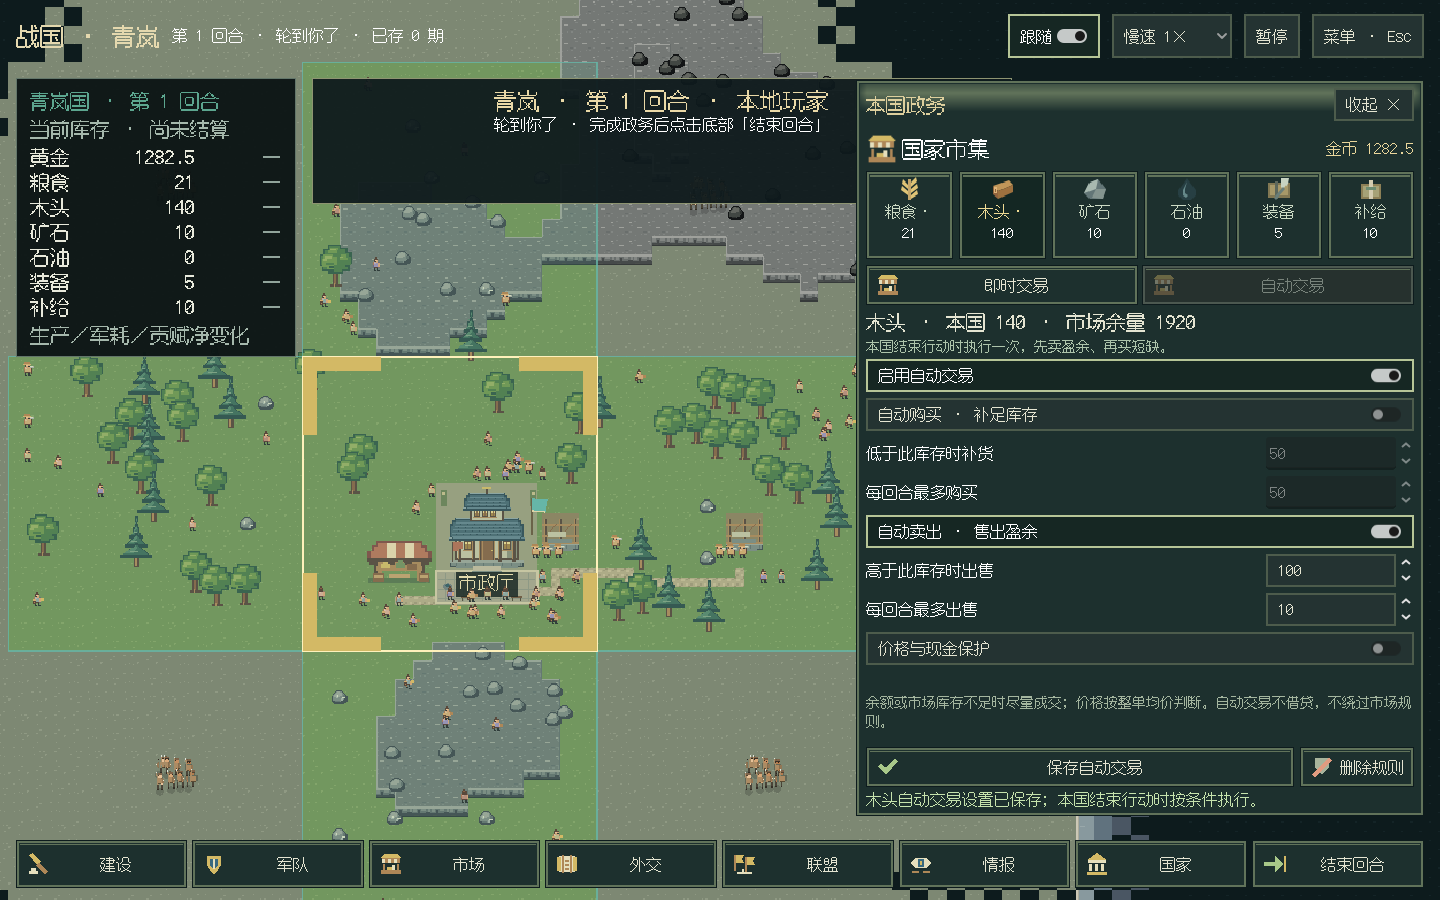
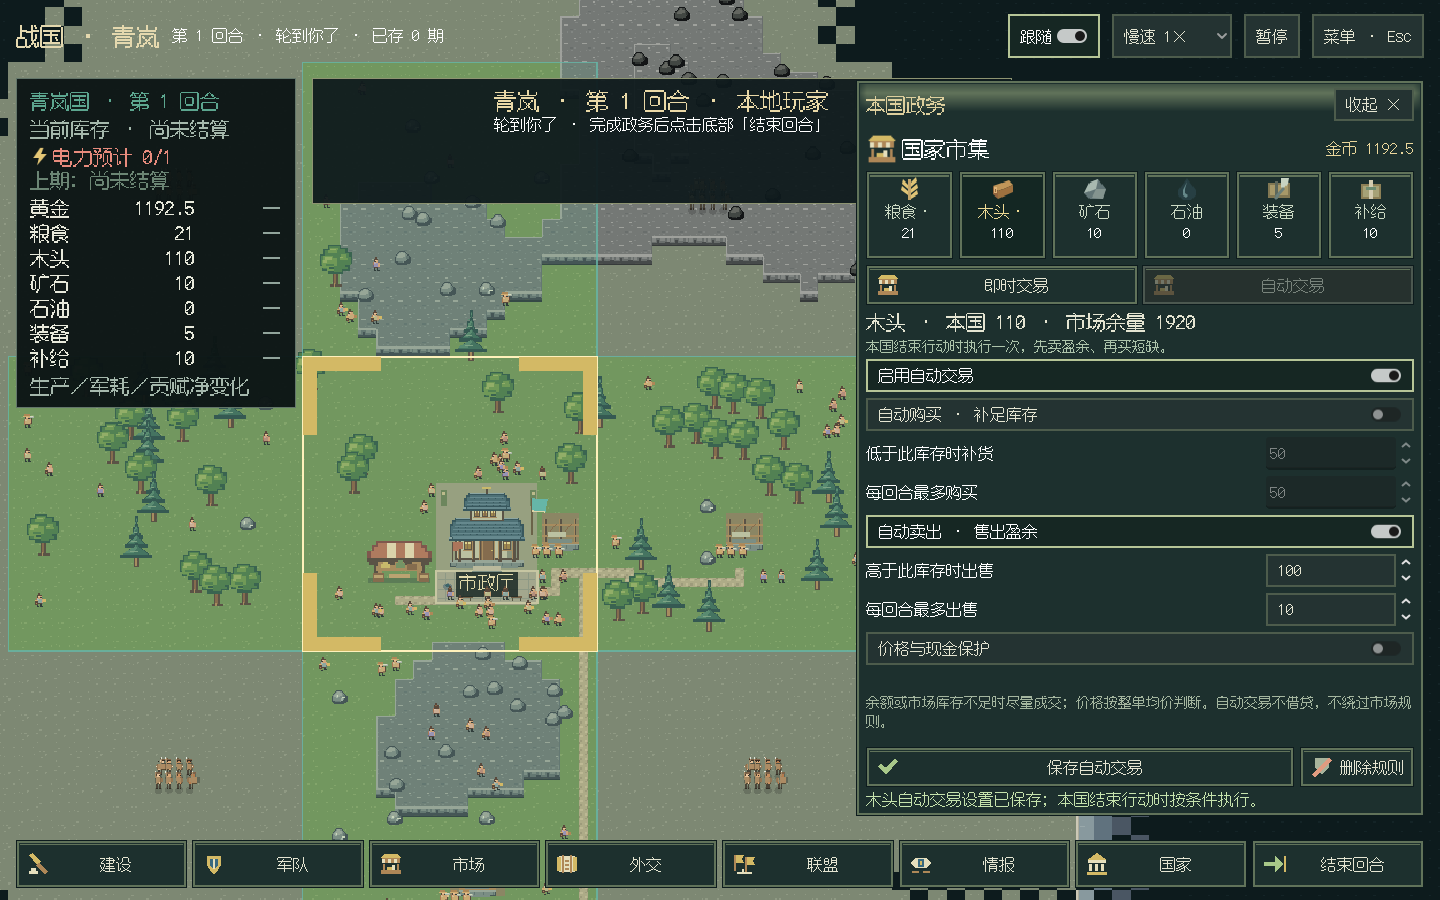
补全常驻电力预估与上期电网状态显示

diff --git a/mods/ui/desktop/Scripts/Desktop.Ledger.cs b/mods/ui/desktop/Scripts/Desktop.Ledger.cs
@@ -12,6 +12,8 @@ public partial class Desktop
     private Label _ledgerHeading=null!,_ledgerPeriod=null!,_settlementHeading=null!,_settlementInfo=null!,_settlementSupply=null!,_settlementTribute=null!,_settlementEmpty=null!;
     private VBoxContainer _settlementBody=null!;
     private GridContainer _ledgerStocks=null!,_settlementStocks=null!;
+    private VBoxContainer _ledgerPowerBox=null!;
+    private Label _ledgerPower=null!,_ledgerPowerLast=null!;
     private string _ledgerActor="";
     private readonly List<string> _ledgerSwitches=new();
     private int _nationalSettlements;
@@ -40,6 +42,11 @@ public partial class Desktop
         _ledgerPanel=LedgerCard(this,6);var box=new VBoxContainer();box.AddThemeConstantOverride("separation",7);_ledgerPanel.AddChild(box);
         _ledgerHeading=LedgerLabel("列国收支");_ledgerHeading.TextOverrunBehavior=TextServer.OverrunBehavior.TrimEllipsis;box.AddChild(_ledgerHeading);
         _ledgerPeriod=LedgerLabel("","a5b8ac");_ledgerPeriod.TextOverrunBehavior=TextServer.OverrunBehavior.TrimEllipsis;box.AddChild(_ledgerPeriod);
+        _ledgerPowerBox=new VBoxContainer { MouseFilter=MouseFilterEnum.Stop };_ledgerPowerBox.AddThemeConstantOverride("separation",2);box.AddChild(_ledgerPowerBox);
+        var powerRow=new HBoxContainer();_ledgerPowerBox.AddChild(powerRow);
+        powerRow.AddChild(new TextureRect { Texture=RtsArt.Resource("native:energy"),CustomMinimumSize=new Vector2(19,19),ExpandMode=TextureRect.ExpandModeEnum.IgnoreSize,StretchMode=TextureRect.StretchModeEnum.KeepAspectCentered,MouseFilter=MouseFilterEnum.Ignore });
+        _ledgerPower=LedgerLabel("");_ledgerPower.Name="CountryPower";_ledgerPower.TextOverrunBehavior=TextServer.OverrunBehavior.TrimEllipsis;powerRow.AddChild(_ledgerPower);
+        _ledgerPowerLast=LedgerLabel("","a5b8ac");_ledgerPowerBox.AddChild(_ledgerPowerLast);
         _ledgerStocks=new GridContainer { Columns=3 };_ledgerStocks.AddThemeConstantOverride("h_separation",10);
         _ledgerStocks.AddThemeConstantOverride("v_separation",4);box.AddChild(_ledgerStocks);
         var note=LedgerLabel("生产／军耗／贡赋净变化","a5b8ac");box.AddChild(note);
@@ -90,6 +97,19 @@ public partial class Desktop
         _ledgerHeading.Text=$"{view.Name}国 · 第 {view.Period+1} 回合";
         _ledgerHeading.Modulate=_map.NationColor(target);
         _ledgerPeriod.Text="当前库存 · "+(view.FlowPeriod<0?"尚未结算":$"第 {view.FlowPeriod+1} 期净变化");
+        _ledgerPowerBox.Visible=view.Power!=null;
+        if(view.Power is LedgerPower power)
+        {
+            string q(double value)=>NationLedger.Quantity(value);
+            bool shortfall=power.Generated is double generated&&generated<power.Demand;
+            _ledgerPower.Text=power.Generated is double supply?$"电力预计 {q(supply)}/{q(power.Demand)}":$"额定电力 {q(power.Capacity)}/{q(power.Demand)}";
+            _ledgerPower.Modulate=new Color(shortfall?"ff9891":"b8d5b3");
+            _ledgerPowerLast.Text=power.PreviousShort==null?"上期：尚未结算":power.PreviousShort==true?"上期：电网不足":"上期：供电正常";
+            _ledgerPowerLast.Modulate=new Color(power.PreviousShort==true?"e6b3a4":"a5b8ac");
+            _ledgerPowerBox.TooltipText=$"预计供电 / 当前需电，额定产能 {q(power.Capacity)}。\n只计已完工设施，按当前库存、采集、燃料与贡赋顺序预估，不扣资源。后续行动和交易可能改变结果。"+
+                (power.FuelShortPlants>0?$"\n{power.FuelShortPlants} 座电厂预计因燃料不足停机。":"")+
+                "\n电力不储存、不交易；上期状态来自实际结算，缺电时耗电设施停工。";
+        }
         ClearLedgerRows(_ledgerStocks);
         foreach(var row in view.Stocks)
         {
@@ -149,5 +169,6 @@ public partial class Desktop
             throw new Exception("全国结算卡片越界或重叠");
         foreach(Control row in _ledgerStocks.GetChildren())
             if(!_ledgerPanel.GetGlobalRect().Encloses(row.GetGlobalRect()))throw new Exception("国家账目行超出面板");
+        if(_ledgerPowerBox.Visible&&!_ledgerPanel.GetGlobalRect().Encloses(_ledgerPowerBox.GetGlobalRect()))throw new Exception("电力面板超出国家面板");
     }
 }

diff --git a/tests/test_energy_preview.py b/tests/test_energy_preview.py
@@ -1,0 +1,63 @@
+"""Current power uses the real production algorithm, without executing a turn."""
+from copy import deepcopy
+import unittest
+from tests import test_building_objects as fixtures
+from tests.test_human import config,A
+from host import GameHost
+from mods.native.human import HumanAPI
+from mods.ui.desktop_player import frame
+
+
+class TestEnergyPreview(unittest.TestCase):
+    def world(self,wood):
+        w=fixtures.TestBuildings().world()
+        w.resources.consume('Qin','native:wood',1000-wood)
+        w.buildings.seed('example:qin','native:wood-power-plant',2)
+        w.buildings.seed('example:qin','native:town-hall')
+        w.buildings.seed('example:qin','native:barracks',2)
+        return w
+
+    def assert_matches(self,w,share=None):
+        before=deepcopy(w.runtime.save_mod_state(w))
+        preview=w.buildings.demand_preview('Qin',share)['energy']
+        self.assertEqual(before,w.runtime.save_mod_state(w),'power forecast mutated real balances/buildings')
+        report=w.buildings.produce(production_shares={'Qin':share} if share else None)
+        actual=next(r for r in report.energy if r.owner=='Qin')
+        self.assertEqual((preview['generated'],preview['demand'],preview['short']),
+                         (actual.generated,actual.demand,actual.short))
+        return preview
+
+    def test_installed_capacity_is_not_generation_when_fuel_is_missing(self):
+        w=self.world(1)
+        preview=self.assert_matches(w)
+        self.assertEqual((preview['capacity'],preview['generated'],preview['demand']),(4,2,3))
+        self.assertEqual((preview['shortfall'],preview['fuel_short_plants']),(1,1))
+
+    def test_current_gathering_can_fuel_plants_but_unfinished_plants_do_not_generate(self):
+        w=self.world(0)
+        w.buildings.seed('example:qin','native:lumber-camp',2)
+        w.buildings.seed('example:qin','native:oil-power-plant',completed=False)
+        preview=self.assert_matches(w)
+        self.assertEqual((preview['capacity'],preview['generated'],preview['demand']),(4,4,3))
+        self.assertEqual(preview['fuel_short_plants'],0)
+
+    def test_tribute_rounding_is_applied_before_power_fuel(self):
+        w=self.world(1)
+        w.buildings.seed('example:qin','native:lumber-camp')
+        preview=self.assert_matches(w,{'recipient':'Chu','percent':100})
+        self.assertEqual(preview['generated'],2)
+
+    def test_player_projection_exposes_only_own_power_and_last_actual_grid_status(self):
+        h=GameHost.new(config());api=HumanAPI(h)
+        energy=api.state(A)['facts']['econ']['preview']['energy']
+        self.assertEqual((energy['generated'],energy['capacity'],energy['demand']),(0,0,1))
+        self.assertIsNone(energy['previous_short'])
+        before=h.to_save();visual=frame(h.ui,api.state(A))
+        self.assertEqual(h.to_save(),before)
+        self.assertEqual([p['id'] for p in visual['scene']['power']],[A])
+        h.cycle(on_human=lambda p:api.submit(A,'end_turn',{}))
+        energy=api.state(A)['facts']['econ']['preview']['energy']
+        self.assertTrue(energy['previous_short'])
+
+
+if __name__=='__main__':unittest.main()

diff --git a/mods/native/buildings/objects.py b/mods/native/buildings/objects.py
@@ -412,8 +412,8 @@ class Buildings:
             for key,amount in cycle.inputs:need[key] = need.get(key,0)+amount
         return MappingProxyType(need)
 
-    def demand_preview(self, owner):
-        """已落成建筑按真实 cycle 配方汇总的满负荷需求，不执行生产。"""
+    def demand_preview(self, owner, production_share=None):
+        """满负荷投入产出，以及按当前库存/采集/燃料预测的电网；不扣资源。"""
         owner_name(owner)
         inputs, outputs, capacity, demand = {}, {}, 0, 0
         for item in self._instances.values():
@@ -423,8 +423,34 @@ class Buildings:
             for key, amount in cycle.outputs:outputs[key] = outputs.get(key, 0) + amount
             capacity += cycle.energy
             demand += item.ENERGY_USE
+        power=self._energy_preview(owner,production_share)
         return {'inputs': inputs, 'outputs': outputs,
-                'energy': {'capacity': capacity, 'demand': demand, 'capacity_gap': max(0, demand-capacity)}}
+                'energy': {'capacity': capacity, 'demand': demand, 'capacity_gap': max(0, demand-capacity),
+                           **power}}
+
+    def _energy_preview(self, owner, production_share):
+        """Run the real production algorithm on detached own buildings/balances.
+
+        No resource exchanges reach the world. This preserves gather-before-
+        fuel, plant order and tribute rounding without duplicating their rules.
+        """
+        stocks=tuple(self._resources('snapshot',owner))
+        def resources(method,*args):
+            if method=='snapshot':
+                return stocks if args[0]==owner else tuple(replace(s,owner=args[0],amount=0) for s in stocks)
+            if method=='exchange_batch':return ()
+            raise ModError('Unexpected energy preview resource operation')
+        candidate=Buildings(tuple(self._types.values()),resources)
+        candidate._period=self.period
+        candidate._sites={key:site for key,site in self._sites.items() if site.owner==owner}
+        candidate._instances={key:type(item).from_save(item.to_save()) for key,item in self._instances.items() if item.site in candidate._sites}
+        candidate._tribute_remainders={key:value for key,value in self._tribute_remainders.items() if key[0]==owner}
+        report=candidate.produce(production_shares={owner:production_share} if production_share else None)
+        row=next((r for r in report.energy if r.owner==owner),EnergyReport(owner,0,0,0,False))
+        blocked=sum(r.status=='missing-input' and candidate._type(r.kind).PHASE=='power' for r in report.records)
+        return {'generated':row.generated,'shortfall':max(0,row.demand-row.generated-row.external),
+                'short':row.short,'fuel_short_plants':blocked,
+                'basis':'按当前完工建筑、库存及采集／发电顺序预估；后续行动与交易可能改变结果，不扣资源。'}
 
     def _other_slots(self, item):
         return sum(other.completed and other.site==item.site and other.kind!=item.kind

diff --git a/mods/ui/desktop/Scripts/Desktop.HumanReview.cs b/mods/ui/desktop/Scripts/Desktop.HumanReview.cs
@@ -99,6 +99,7 @@ public partial class Desktop
             _menu.Visible=false;StartHost(configPath,null);
             await HumanIdle();if(_map.NationName(HumanActor)!="青岚"||_map.NationColor(HumanActor).ToHtml(false)!="66b6a7")throw new Exception("本国名称／颜色未进入实际地图");
             if(OwnArmies.Any())throw new Exception("正常真人开局不应赠兵");CloseDrawers(false);_map.Fit();await Screenshot(path);
+            if(!_ledgerPowerBox.Visible||!_ledgerPower.Text.Contains("0/1")||!_ledgerPowerLast.Text.Contains("尚未结算"))throw new Exception("开局未显示当前电力缺口与首次结算状态");
             foreach(string page in new[]{"build","army","market","diplomacy","alliance","intel","nation"})
             {
                 await PointerClick(_humanNav[page]);await ToSignal(GetTree(),SceneTree.SignalName.ProcessFrame);
@@ -148,6 +149,8 @@ public partial class Desktop
             await WaitFor(()=>HumanCanWrite&&_period==1,"真人回合没有轮换与结算",120);
             var autoOrders=HumanFacts["market"]!["automatic"]!["last"]!["orders"]!.AsArray();
             if(!autoOrders.Any(o=>S(o!["side"])=="buy"&&I(o["quantity"])>0)||!autoOrders.Any(o=>S(o!["side"])=="sell"&&I(o["quantity"])>0))throw new Exception("自动买卖没有在结束行动时真实成交");
+            if(NationLedger.Read(_map.Frame!,HumanActor)?.Power is not {Capacity:2,Generated:2,Demand:1,PreviousShort:true}||!_ledgerPowerLast.Text.Contains("不足"))throw new Exception("电厂落成后的供电预估与上期实际电网没有区分");
+            await Screenshot(stem+"-power.png");
             await ReviewCompletedDemolition(stem,otherCell);
             _humanCell=capital;OpenHumanPage("recruit");await RtsReady();
             if(_rtsCards["native:militia"].Disabled||!_rtsCards["native:infantry"].Disabled)throw new Exception("军屯与兵营候选未正确筛选");
@@ -238,6 +241,7 @@ public partial class Desktop
                 ["map_purchase"]=true,["historical_pixels_static"]=true,["single_nation_ledger"]=true,
                 ["market_quantity_buttons"]=true,["market_exact_quotes"]=true,["auto_trade_buy_and_sell"]=true,["auto_trade_validation"]=true,["cancel_half_refund"]=true,["cancel_keeps_quota"]=true,["demolish_zero_refund"]=true,["market_layouts"]=true,
                 ["garrison_visible_without_scroll"]=true,["wild_garrison_continuity"]=true,["wild_guard_id"]=wildId,["wild_formation_figures"]=wildFigures,
+                ["power_visible"]=true,["power_ignores_unfinished"]=true,["power_previous_actual"]=true,
                 ["save_queued"]=true,["exit_choice"]=true,["rts_layouts"]=true,["save"]=_savePath,["config"]=configPath,["layouts"]=layouts,
                 ["platform"]=OS.GetName(),["renderer"]=RenderingServer.GetVideoAdapterName() };
             await File.WriteAllTextAsync(path+".json",result.ToJsonString(new JsonSerializerOptions { WriteIndented=true }));

diff --git a/mods/native/economy_queries/objects.py b/mods/native/economy_queries/objects.py
@@ -96,7 +96,10 @@ class EconomicQueries:
         buildings = self._value(self._call('native:buildings','replacement_costs',owner))
         turns = self._call('native:economy','turns',owner)
         flows = self._call('native:economy','production',owner)
-        preview = dict(self._call('native:buildings', 'demand_preview', owner))
+        relations=self._call('native:diplomacy','snapshot',owner).vassals if 'native:diplomacy' in self._runtime.capabilities else ()
+        relation=next((s for s in relations if s.subject==owner),None)
+        share={'recipient':relation.overlord,'percent':relation.tribute_percent} if relation else None
+        preview = dict(self._call('native:buildings', 'demand_preview', owner,share))
         # 本期产业按当前建筑与市价的满负荷预演；latest_flows 仍是上一期实际。
         outputs = dict(preview.get('outputs') or ())
         production_inputs = dict(preview.get('inputs') or ())
@@ -112,8 +115,6 @@ class EconomicQueries:
                     'supply_value': supply_value, 'equipment_value': equipment_value,
                     'input_value': input_value, 'margin': secondary_value.plus(input_value, -1)}
         if 'native:diplomacy' in self._runtime.capabilities:
-            relations=self._call('native:diplomacy','snapshot',owner).vassals
-            relation=next((s for s in relations if s.subject==owner),None)
             if relation:
                 preview['tribute']=self._call('native:buildings','tribute_preview',owner,relation.overlord,relation.tribute_percent)
             receivables=[{'subject':s.subject,'percent':s.tribute_percent,
@@ -126,6 +127,7 @@ class EconomicQueries:
         if military:
             inputs['native:supply'] = inputs.get('native:supply', 0) + military['need']
             inputs['native:equipment'] = inputs.get('native:equipment', 0) + military['equipment_need']
+        preview['energy']['previous_short']=military.get('last_grid_short')
         balances = {row.id: row.amount for row in stocks}
         preview.update(inputs=inputs, military=military,
                        shortfalls={key:amount-balances.get(key,0) for key,amount in inputs.items() if amount>balances.get(key,0)})

diff --git a/mods/ui/desktop/Scripts/NationLedger.cs b/mods/ui/desktop/Scripts/NationLedger.cs
@@ -7,7 +7,9 @@ using System.Text.Json.Nodes;
 namespace Zhanguo.Desktop.Layout;
 
 public sealed record LedgerStock(string Id,string Name,double Amount,double Change);
-public sealed record NationLedgerView(string Actor,string Name,int Period,int FlowPeriod,IReadOnlyList<LedgerStock> Stocks);
+public sealed record LedgerPower(double Capacity,double? Generated,double Demand,bool? PreviousShort,int FuelShortPlants);
+public sealed record NationLedgerView(string Actor,string Name,int Period,int FlowPeriod,IReadOnlyList<LedgerStock> Stocks)
+{ public LedgerPower? Power {get;init;} }
 
 // Reads the replayed frame, including action-time account deltas; never reads
 // the pending end-of-batch frame or guesses income from inventory differences.
@@ -22,7 +24,11 @@ public static class NationLedger
         var stocks=(nation["stocks"]?.AsArray()??new JsonArray()).Select(s=>new LedgerStock(
             s!["id"]!.ToString(),s["name"]?.ToString()??s["id"]!.ToString(),Number(s["amount"]),
             changes.GetValueOrDefault(s["id"]!.ToString()))).ToArray();
-        return new(actor,nation["name"]!.ToString(),frame["period"]!.GetValue<int>(),flow?["period"]?.GetValue<int>()??-1,stocks);
+        var energy=nation["energy"];
+        return new(actor,nation["name"]!.ToString(),frame["period"]!.GetValue<int>(),flow?["period"]?.GetValue<int>()??-1,stocks) {
+            Power=energy?["capacity"]!=null&&energy["demand"]!=null?new LedgerPower(Number(energy["capacity"]),
+                energy["generated"]==null?null:Number(energy["generated"]),Number(energy["demand"]),
+                energy["previous_short"]?.GetValue<bool>(),(int)Number(energy["fuel_short_plants"])):null };
     }
     public static Dictionary<string,double> Amounts(JsonNode? pairs)=>(pairs?.AsArray()??new JsonArray())
         .ToDictionary(p=>p![0]!.ToString(),p=>Number(p![1]));

diff --git a/mods/ui/desktop/Scripts/Desktop.MarketReview.cs b/mods/ui/desktop/Scripts/Desktop.MarketReview.cs
@@ -4,6 +4,7 @@ using System.Linq;
 using System.Text.Json.Nodes;
 using System.Threading.Tasks;
 using static WorldMap;
+using Zhanguo.Desktop.Layout;
 
 public partial class Desktop
 {
@@ -28,6 +29,10 @@ public partial class Desktop
         OpenHumanPage("build");await RtsReady();
         if(!Yes(_rtsData!["ordered"])||_rtsAvailability.Values.Any(v=>v))throw new Exception("撤销恢复了本格当期施工额度");
         await Screenshot(stem+"-cancelled.png");
+        var powerCell=HumanFacts["building_sites"]!["sites"]!.AsArray().Select(s=>new Vector2I(I(s!["position"]![0]),I(s["position"]![1]))).First(p=>p!=capital&&p!=other&&p!=third);
+        _humanCell=powerCell;OpenHumanPage("build");await RtsReady();
+        await PointerClick(_rtsCards["native:wood-power-plant"]);await HumanIdle();await RtsReady();
+        if(NationLedger.Read(_map.Frame!,HumanActor)?.Power?.Generated!=0)throw new Exception("未完工电厂提前计入供电");
         _marketAutomatic=false;OpenHumanPage("market");await MarketReady();
         if(_marketData!["quotes"]!.AsArray().Count!=10)throw new Exception("不是十档正负交易按钮");
         foreach(var side in new[]{"buy","sell"})foreach(int n in new[]{1,10,50,100,500})

diff --git a/tests/desktop-layout/LedgerChecks.cs b/tests/desktop-layout/LedgerChecks.cs
@@ -26,6 +26,10 @@ static class LedgerChecks
         DesktopScene.Apply(frame,settled);q=NationLedger.Read(frame,"q")!;
         Require(q.FlowPeriod==4&&q.Stocks.Single().Change==0&&NationLedger.Read(frame,"c")!.FlowPeriod==3,"zero flow remained stale or another country's settlement advanced early");
         Require(NationLedger.Signed(-8)=="-8"&&NationLedger.Signed(12)=="+12"&&NationLedger.Signed(0)=="—","signed resource labels lost their sign");
+        var grid=JsonNode.Parse("""{"power":{"remove":[],"upsert":[{"id":"q","capacity":4,"generated":2,"demand":3,"previous_short":true,"fuel_short_plants":1}]}}""")!.AsObject();
+        DesktopScene.Apply(frame,grid);q=NationLedger.Read(frame,"q")!;
+        Require(q.Power is {Capacity:4,Generated:2,Demand:3,PreviousShort:true,FuelShortPlants:1},"ledger confused rated capacity, current fuel-limited supply and prior actual grid");
+        Require(NationLedger.Read(frame,"c")!.Power==null,"another country's power leaked into this country's ledger");
         Console.WriteLine("NATION_LEDGER_OK: one country, actual action-time holdings, dated flows, zero reset and detached projection");
     }
 }

diff --git a/mods/ui/desktop/Scripts/Desktop.Human.Panels.cs b/mods/ui/desktop/Scripts/Desktop.Human.Panels.cs
@@ -166,7 +166,7 @@ public partial class Desktop
         HumanText($"{NationLabel(HumanActor)} · 国务",true);
         HumanText("当前库存\n"+string.Join("\n",HumanFacts["econ"]!["stocks"]!.AsArray().Select(s=>$"{HumanLabel(S(s!["id"]))}  {Quantity(s["amount"])}")));
         var e=HumanFacts["econ"]!["preview"]!;
-        HumanText($"能源预演：产能 {e["energy"]?["capacity"]} / 需求 {e["energy"]?["demand"]}\n生产与军需预演（非实收）：\n{Resources(e["outputs"])}\n需求：{Resources(e["inputs"])}");
+        HumanText($"电力预计 {e["energy"]?["generated"]} / 需求 {e["energy"]?["demand"]} · 额定 {e["energy"]?["capacity"]}\n生产与军需预演（非实收）：\n{Resources(e["outputs"])}\n需求：{Resources(e["inputs"])}");
         var bank=HumanFacts["bank"]!;
         HumanText($"贷款额度 {bank["credit_limit"]} 金 · 当前债务 {bank["liabilities"]} 金\n存款利率 {F(bank["savings_rate"]):P1} · 贷款利率 {F(bank["loan_rate"]):P1}");
         HumanButton("贷款与只读授信预览",()=>{_humanOperation="borrow";OpenHumanPage("finance");},"market");

diff --git a/mods/ui/desktop/Scripts/DesktopScene.cs b/mods/ui/desktop/Scripts/DesktopScene.cs
@@ -46,11 +46,13 @@ public static class DesktopScene
         frame["armies"]=scene["armies"]!.DeepClone();
         var accounts=scene["accounts"]?.AsArray().ToDictionary(a=>a!["id"]!.ToString());
         var flows=scene["resource_flows"]?.AsArray().ToDictionary(a=>a!["id"]!.ToString());
+        var power=scene["power"]?.AsArray().ToDictionary(a=>a!["id"]!.ToString());
         foreach(var n in frame["nations"]?.AsArray()??new JsonArray())
         {
             string id=n!["id"]!.ToString();
             if(accounts?.TryGetValue(id,out var account)==true)n["stocks"]=account!["stocks"]!.DeepClone();
             if(flows?.TryGetValue(id,out var flow)==true)n["resource_flow"]=flow!.DeepClone();
+            if(power?.TryGetValue(id,out var grid)==true)n["energy"]=grid!.DeepClone();
             n["land"]=owners.Values.Count(v=>v?.ToString()==id);
             var units=scene["armies"]!.AsArray().Where(u=>u!["owner"]!.ToString()==id&&F(u["hp"])>0);
             var counts=new JsonObject();foreach(var g in units.GroupBy(u=>UnitName(u!["kind"]!.ToString())))counts[g.Key]=g.Count();

diff --git a/mods/native/observer.py b/mods/native/observer.py
@@ -50,7 +50,8 @@ class NativeObserver:
                                    'hp':self.world.units.definition('native:infantry')['hp'],
                                    'x':x,'y':y,'engaged':False,'potential':True})
             market=wire(self.world.market.summary());stock=dict(market['inventory']);reference=dict(market['reference'])
-            return {'buildings':buildings,'armies':wire(self.world.military.snapshot()),'guards':guards,
+            power=[{'id':a,**self.runtime.object_call(self.world,'economy:queries','balance',a).preview['energy']} for a in self.actors()]
+            return {'buildings':buildings,'armies':wire(self.world.military.snapshot()),'guards':guards,'power':power,
                     'unit_types':[{'id':kind,'max_hp':self.world.units.definition(kind)['hp']} for kind in self.world.units.type_ids],
                     'tile_defenses':defenses,
                     'production':[wire(r.fact) for r in self.world.economy.facts(self.world.economy.next_period-1)

diff --git a/mods/ui/desktop_player.py b/mods/ui/desktop_player.py
@@ -91,6 +91,7 @@ def frame(ui,state):
         'labels':{key:label(key) for key in set(kinds)|set(terrain)|set(s['id'] for s in stocks)|set(facts['unit_catalog'])|{k for t in tiles for k,_ in t.get('resources',[])}},
         'clients':[{'actor':actor,'kind':'human','version':'human/1','model':None,'strategy':None}],
         'scene':{'buildings':buildings,'armies':armies,'guards':guards,'tile_defenses':defenses,
+            'power':[{'id':actor,**deepcopy(facts['econ']['preview']['energy'])}],
             'ownership':ownership,'accounts':[{'id':actor,'stocks':stocks}],
             'resource_flows':[resource_flow],'production':[],'market':prices,
             'unit_types':[{'id':k,'max_hp':v['hp']} for k,v in facts['unit_catalog'].items()]}}
